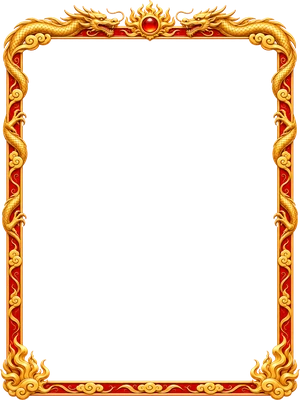
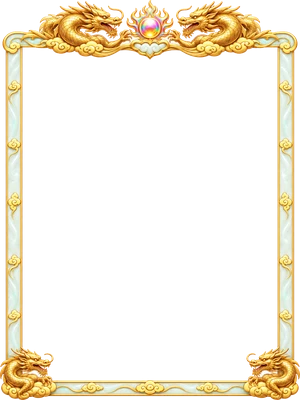
Khung UR moi: ngoc trang vien vang, nhi long tranh chau

Changed region(s): [[0.0, 0.0, 1.0, 1.0]]

diff --git a/index.html b/index.html
@@ -14,26 +14,26 @@
 <link rel="preconnect" href="https://fonts.googleapis.com">
 <link rel="preconnect" href="https://fonts.gstatic.com" crossorigin>
 <link href="https://fonts.googleapis.com/css2?family=Baloo+2:wght@500;600;700;800&family=Dancing+Script:wght@700&display=swap" rel="stylesheet">
-<link rel="stylesheet" href="css/style.css?v=1795414769">
-<link rel="stylesheet" href="css/themes.css?v=1795414769">
+<link rel="stylesheet" href="css/style.css?v=1795415080">
+<link rel="stylesheet" href="css/themes.css?v=1795415080">
 </head>
 <body>
 <div id="app">
   <canvas id="game"></canvas>
   <div id="ui"></div>
 </div>
-<script src="js/data.js?v=1795414769"></script><script src="art/enemies/meta.js?v=1795414769"></script><script src="art/ssrfx/aura_c.js?v=1795414769"></script>
-  <script src="art/poses/hmeta.js?v=1795414769"></script>
-<script src="js/art.js?v=1795414769"></script>
-<script src="art/anim/manifest.js?v=1795414769"></script>
-<script src="js/rig.js?v=1795414769"></script>
-<script src="art/rig/all.js?v=1795414769"></script>
-<script src="js/layered.js?v=1795414769"></script>
-<script src="art/mesh/index.js?v=1795414769"></script>
-<script src="js/meshrig.js?v=1795414769"></script>
-<script src="art/skel/index.js?v=1795414769"></script>
-<script src="js/skel.js?v=1795414769"></script>
-<script src="js/vfx.js?v=1795414769"></script>
-<script src="js/main.js?v=1795414769"></script>
+<script src="js/data.js?v=1795415080"></script><script src="art/enemies/meta.js?v=1795415080"></script><script src="art/ssrfx/aura_c.js?v=1795415080"></script>
+  <script src="art/poses/hmeta.js?v=1795415080"></script>
+<script src="js/art.js?v=1795415080"></script>
+<script src="art/anim/manifest.js?v=1795415080"></script>
+<script src="js/rig.js?v=1795415080"></script>
+<script src="art/rig/all.js?v=1795415080"></script>
+<script src="js/layered.js?v=1795415080"></script>
+<script src="art/mesh/index.js?v=1795415080"></script>
+<script src="js/meshrig.js?v=1795415080"></script>
+<script src="art/skel/index.js?v=1795415080"></script>
+<script src="js/skel.js?v=1795415080"></script>
+<script src="js/vfx.js?v=1795415080"></script>
+<script src="js/main.js?v=1795415080"></script>
 </body>
 </html>
